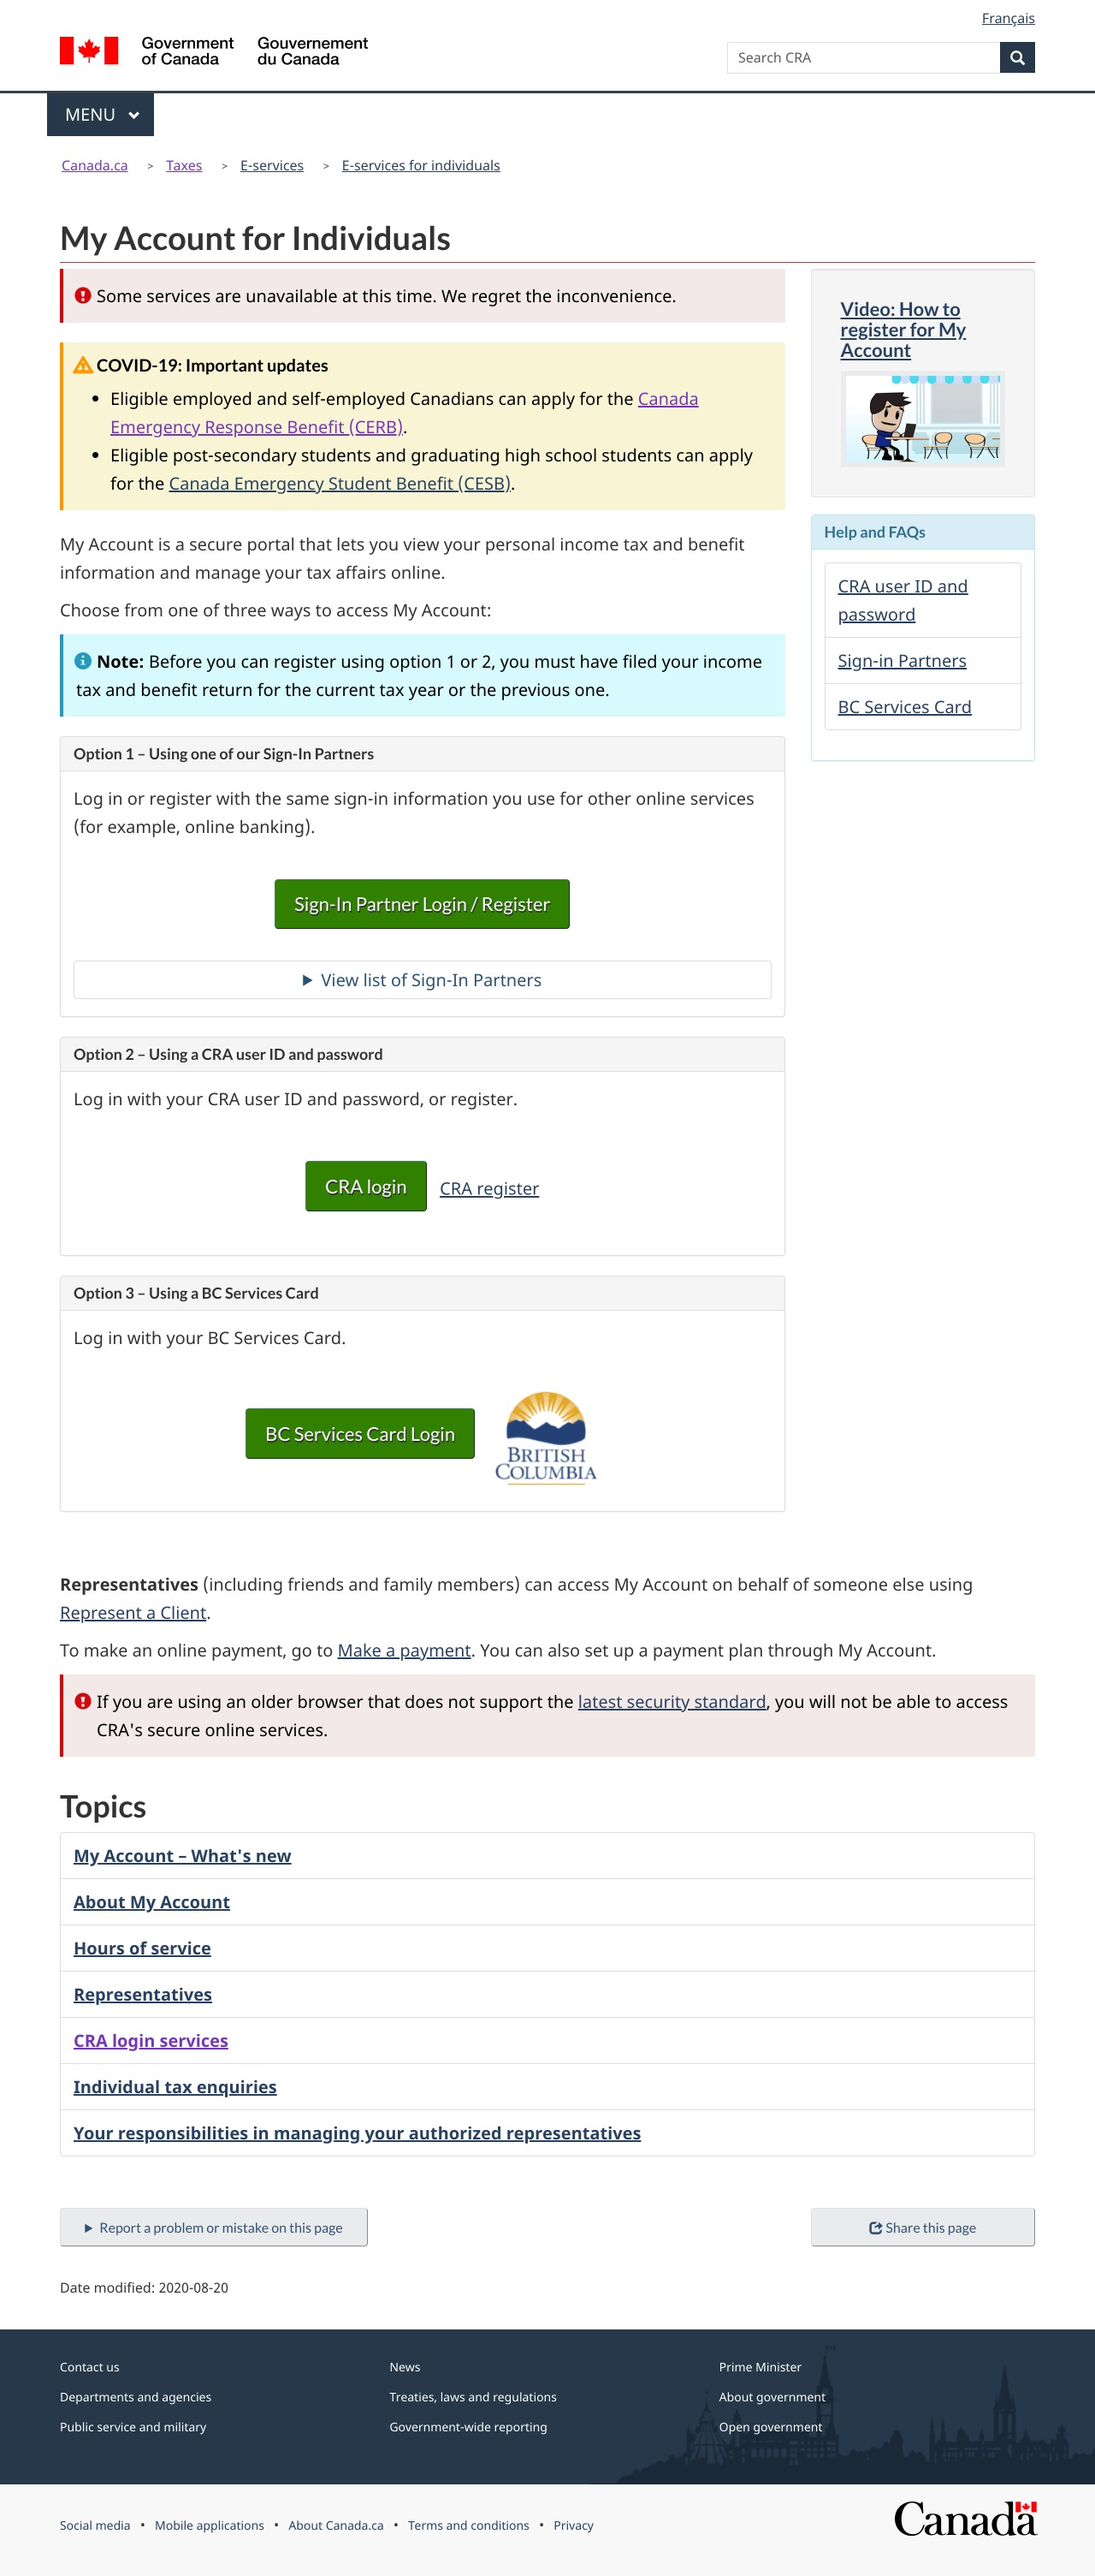
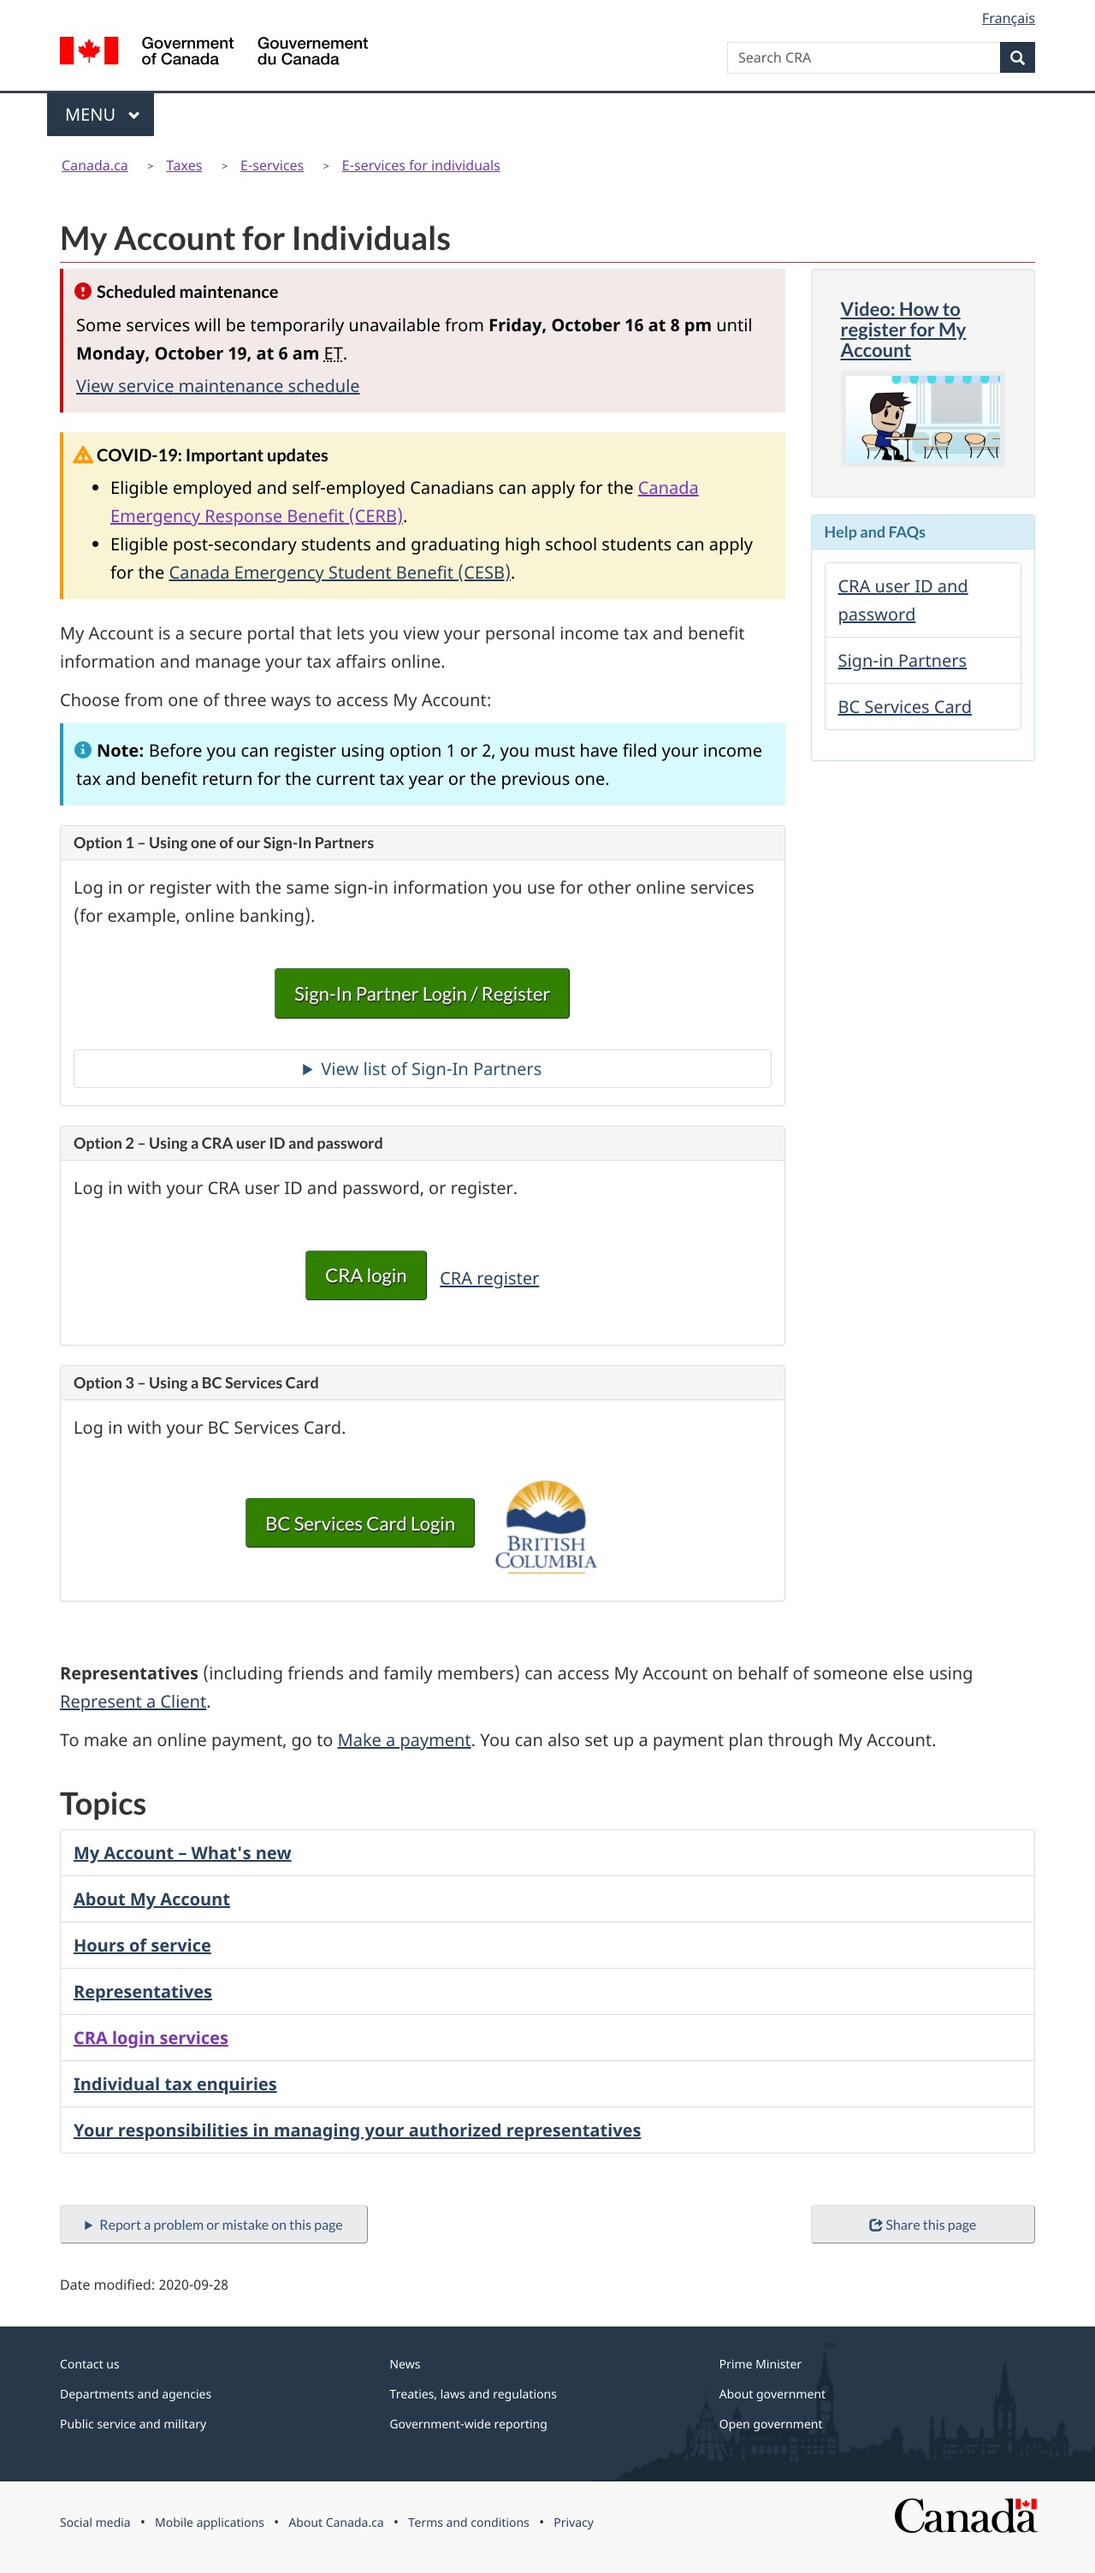
Add new my account screenshot

diff --git a/prototypes/alerts/cra-login-services/outage-details.html b/prototypes/alerts/cra-login-services/outage-details.html
@@ -260,9 +260,9 @@ Maintenance times
 
 <th class="col-sm-4">Service</th>
 
-<th class="col-sm-4">Interruption begins (<abbr title="Eastern time">ET</abbr>)</th>
+<th class="col-sm-4">Maintenance begins (<abbr title="Eastern time">ET</abbr>)</th>
 
-<th class="col-sm-4">Interruption ends (<abbr title="Eastern time">ET</abbr>)</th>
+<th class="col-sm-4">Maintenance ends (<abbr title="Eastern time">ET</abbr>)</th>
 
 </tr>
 
